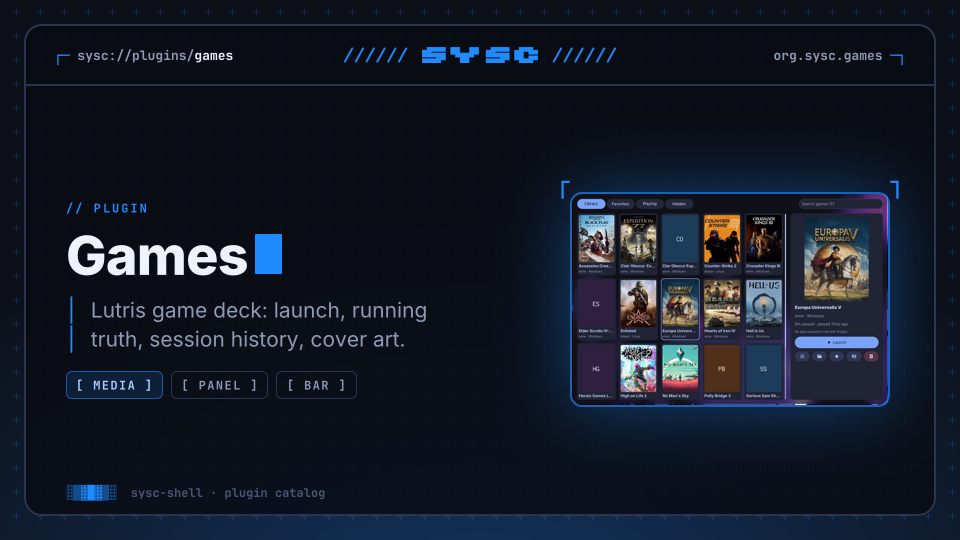
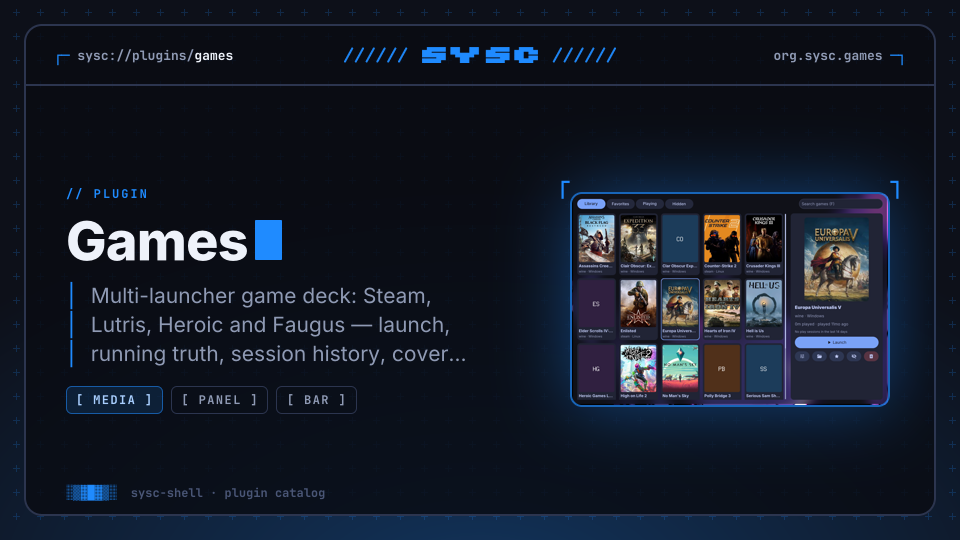
fix(games): preserve game library aliases

Changed region(s): [[0.0625, 0.3556, 0.4688, 0.7704]]

diff --git a/plugins/games/source/set.go b/plugins/games/source/set.go
@@ -51,6 +51,7 @@ func (s *Set) List(ctx context.Context) ([]Game, error) {
 			if g.Source == "" {
 				g.Source = src.Name()
 			}
+			localID := g.ID
 			g.ID = Key(g.Source, g.ID)
 
 			idx := -1
@@ -72,6 +73,17 @@ func (s *Set) List(ctx context.Context) ([]Game, error) {
 			if idx >= 0 {
 				if out[idx].Source != g.Source && !contains(out[idx].OtherSources, g.Source) {
 					out[idx].OtherSources = append(out[idx].OtherSources, g.Source)
+				}
+				if out[idx].Identity == "" && g.Identity != "" {
+					out[idx].Identity = g.Identity
+					byIdentity[g.Identity] = idx
+				}
+				_, primaryID := Split(out[idx].ID)
+				if out[idx].Source != g.Source || primaryID != localID {
+					copy := GameCopy{ID: localID, Name: g.Name, Directory: g.Directory, Source: g.Source}
+					if !containsCopy(out[idx].Copies, copy) {
+						out[idx].Copies = append(out[idx].Copies, copy)
+					}
 				}
 				continue
 			}
@@ -120,10 +132,17 @@ func (s *Set) Stop(ctx context.Context, g Game) error {
 // only ever sees its own games, with the namespace stripped.
 func (s *Set) Running(ctx context.Context, games []Game) (map[string]time.Time, error) {
 	perSource := map[string][]Game{}
+	canonical := map[string]string{}
 	for _, g := range games {
 		_, local := Split(g.ID)
-		g.ID = local
-		perSource[g.Source] = append(perSource[g.Source], g)
+		primary := g
+		primary.ID, primary.Copies = local, nil
+		perSource[g.Source] = append(perSource[g.Source], primary)
+		canonical[Key(g.Source, local)] = g.ID
+		for _, c := range g.Copies {
+			perSource[c.Source] = append(perSource[c.Source], Game{ID: c.ID, Name: c.Name, Directory: c.Directory, Source: c.Source})
+			canonical[Key(c.Source, c.ID)] = g.ID
+		}
 	}
 	out := map[string]time.Time{}
 	var errs []error
@@ -134,7 +153,13 @@ func (s *Set) Running(ctx context.Context, games []Game) (map[string]time.Time, 
 			continue
 		}
 		for id, start := range m {
-			out[Key(src.Name(), id)] = start
+			key := Key(src.Name(), id)
+			if target, ok := canonical[key]; ok {
+				key = target
+			}
+			if _, exists := out[key]; !exists {
+				out[key] = start
+			}
 		}
 	}
 	if len(errs) > 0 && len(errs) == len(s.sources) {
@@ -163,6 +188,15 @@ func titleKey(name string) string {
 func contains(list []string, want string) bool {
 	for _, s := range list {
 		if s == want {
+			return true
+		}
+	}
+	return false
+}
+
+func containsCopy(list []GameCopy, want GameCopy) bool {
+	for _, got := range list {
+		if got == want {
 			return true
 		}
 	}

diff --git a/plugins/games/source/set_test.go b/plugins/games/source/set_test.go
@@ -141,6 +141,26 @@ func TestSetDoesNotMergeConflictingIdentities(t *testing.T) {
 	}
 }
 
+func TestSetDoesNotMergeConflictingIdentitiesAfterTitleFallback(t *testing.T) {
+	heroic := &stubSource{name: "heroic", games: []Game{{ID: "side", Name: "Portal", Source: "heroic"}}}
+	steam := &stubSource{name: "steam", games: []Game{{ID: "620", Name: "Portal", Identity: "steam:620"}}}
+	lutris := &stubSource{name: "lutris", games: []Game{{ID: "7", Name: "Portal", Identity: "epic:portal"}}}
+
+	games, err := NewSet(heroic, steam, lutris).List(context.Background())
+	if err != nil {
+		t.Fatal(err)
+	}
+	if len(games) != 2 {
+		t.Fatalf("games = %+v, want the identity-less copy merged with one store copy and the conflicting store copy kept separate", games)
+	}
+	if games[0].Identity != "steam:620" || len(games[0].OtherSources) != 1 || games[0].OtherSources[0] != "steam" {
+		t.Fatalf("identity-less card did not retain the first strong identity and source: %+v", games[0])
+	}
+	if games[1].Identity != "epic:portal" || games[1].Source != "lutris" {
+		t.Fatalf("conflicting store copy was not kept: %+v", games[1])
+	}
+}
+
 func TestSetKeepsSameTitleWithinOneSource(t *testing.T) {
 	lutris := &stubSource{name: "lutris", games: []Game{
 		{ID: "1", Name: "Portal"},
@@ -220,6 +240,31 @@ func TestSetRunningHandsEachLibraryItsOwnGames(t *testing.T) {
 	}
 	if len(lutris.ranGames) != 2 || lutris.ranGames[0].ID != "7" || lutris.ranGames[1].ID != "My Game (v2)" {
 		t.Fatalf("lutris saw %+v", lutris.ranGames)
+	}
+}
+
+func TestSetRunningMapsMergedCopyToCanonicalGame(t *testing.T) {
+	start := time.Now()
+	steam := &stubSource{name: "steam", games: []Game{{ID: "620", Name: "Portal 2", Identity: "steam:620"}}}
+	heroic := &stubSource{
+		name:    "heroic",
+		games:   []Game{{ID: "portal-2", Name: "Portal 2", Identity: "steam:620"}},
+		running: map[string]time.Time{"portal-2": start},
+	}
+	set := NewSet(steam, heroic)
+	games, err := set.List(context.Background())
+	if err != nil {
+		t.Fatal(err)
+	}
+	running, err := set.Running(context.Background(), games)
+	if err != nil {
+		t.Fatal(err)
+	}
+	if got := running["steam:620"]; !got.Equal(start) {
+		t.Fatalf("canonical running state = %v, want %v; running=%v", got, start, running)
+	}
+	if len(heroic.ranGames) != 1 || heroic.ranGames[0].ID != "portal-2" {
+		t.Fatalf("Heroic received games %+v, want its source-local alias", heroic.ranGames)
 	}
 }
 

diff --git a/plugins/games/panel/settings.go b/plugins/games/panel/settings.go
@@ -11,7 +11,7 @@ func SettingsHeader() *v1.Node {
 		Kind: v1.KindColumn, Fill: "card", Shape: "card", Padding: 12, Gap: 8,
 		Children: []*v1.Node{
 			{Kind: v1.KindRow, Gap: 8, Height: 44, Children: []*v1.Node{
-				{Kind: v1.KindButton, ID: "back", Icon: "chevron_left", Width: 40, Height: 36, Padding: 8,
+				{Kind: v1.KindButton, ID: "back", Icon: "chevron_left", Width: 44, Height: 44, Padding: 8,
 					Name: "Back to games", Role: "button", Tooltip: "Back to the game deck",
 					Events: []v1.EventKind{v1.EventActivate}},
 				{Kind: v1.KindIcon, Icon: "settings", IconSize: 20},
@@ -19,7 +19,7 @@ func SettingsHeader() *v1.Node {
 					{Kind: v1.KindText, Text: "Game Library Settings", Bold: true, Size: "title"},
 				}},
 			}},
-			{Kind: v1.KindText, Text: "Settings save automatically. A game listed by two libraries appears once, launching through the default launcher.",
+			{Kind: v1.KindText, Text: "Settings save automatically. Duplicate games appear once; the selected launcher is used when available.",
 				Tone: v1.ToneSubtle, Size: "caption", MaxWidth: 620},
 		},
 	}}}

diff --git a/plugins/games/source/heroic/heroic_test.go b/plugins/games/source/heroic/heroic_test.go
@@ -196,6 +196,23 @@ func TestLaunchArgv(t *testing.T) {
 	}
 }
 
+func TestLaunchEscapesSideloadID(t *testing.T) {
+	var got string
+	src := mustNew(t, Options{
+		ConfigDirs: []string{t.TempDir()},
+		Run: func(_ context.Context, name string, args ...string) error {
+			got = strings.Join(append([]string{name}, args...), " ")
+			return nil
+		},
+	})
+	if err := src.Launch(context.Background(), source.Game{ID: "Sugar II/100%?", Runner: "sideload"}); err != nil {
+		t.Fatal(err)
+	}
+	if want := "xdg-open heroic://launch/sideload/Sugar%20II%2F100%25%3F"; got != want {
+		t.Fatalf("launch argv = %q, want %q", got, want)
+	}
+}
+
 func TestRunningAndStop(t *testing.T) {
 	procRoot := t.TempDir()
 	writeProc(t, procRoot, 4242, "/games/sugar/bin/sugar\x00--fullscreen\x00")

diff --git a/plugins/games/source/source.go b/plugins/games/source/source.go
@@ -35,6 +35,19 @@ type Game struct {
 	// OtherSources lists the libraries a merged card also exists in, in set
 	// order; the detail pane reads it as "Also in …".
 	OtherSources []string
+	// Copies retains each merged library's local id and running-match fields.
+	// The selected copy still owns launch and stop; aliases let every library
+	// contribute running state to the same card.
+	Copies []GameCopy
+}
+
+// GameCopy is the source-local part of a deduplicated game needed for running
+// detection. IDs stay local so each backend sees the same values it listed.
+type GameCopy struct {
+	ID        string
+	Name      string
+	Directory string
+	Source    string
 }
 
 type Source interface {

diff --git a/plugins/games/source/heroic/heroic.go b/plugins/games/source/heroic/heroic.go
@@ -10,6 +10,7 @@ import (
 	"context"
 	"encoding/json"
 	"fmt"
+	"net/url"
 	"os"
 	"path/filepath"
 	"sort"
@@ -181,9 +182,9 @@ func (s *Source) sideload() []source.Game {
 // own. The URI is the one launch path shared by every install shape — native
 // package, AppImage and Flatpak — because Heroic registers the scheme itself.
 func (s *Source) Launch(ctx context.Context, g source.Game) error {
-	uri := "heroic://launch/" + g.ID
+	uri := "heroic://launch/" + url.PathEscape(g.ID)
 	if g.Runner == "sideload" {
-		uri = "heroic://launch/sideload/" + g.ID
+		uri = "heroic://launch/sideload/" + url.PathEscape(g.ID)
 	}
 	return s.run(ctx, "xdg-open", uri)
 }

diff --git a/plugins/games/panel/settings_test.go b/plugins/games/panel/settings_test.go
@@ -20,8 +20,12 @@ func TestSettingsHeaderFits(t *testing.T) {
 			t.Errorf("settings header at %dx%d: %v", box[0], box[1], f)
 		}
 	}
-	if find(t, root, "back") == nil {
+	back := find(t, root, "back")
+	if back == nil {
 		t.Fatal("the settings header needs the back button")
+	}
+	if back.Width < 44 || back.Height < 44 || back.Name == "" {
+		t.Fatalf("back button target/accessible name = %dx%d %q; want at least 44x44 and a name", back.Width, back.Height, back.Name)
 	}
 	if find(t, root, "settings") != nil {
 		t.Fatal("the header is not the settings form; the host renders that")

diff --git a/cmd/sysc-plugin-games/main.go b/cmd/sysc-plugin-games/main.go
@@ -500,7 +500,7 @@ func equalGames(a, b []source.Game) bool {
 			x.LastPlayed.Equal(y.LastPlayed) && x.Directory == y.Directory &&
 			x.Executable == y.Executable && x.ConfigPath == y.ConfigPath &&
 			x.CoverPath == y.CoverPath && x.Source == y.Source &&
-			x.Identity == y.Identity && slices.Equal(x.OtherSources, y.OtherSources)
+			x.Identity == y.Identity && slices.Equal(x.OtherSources, y.OtherSources) && slices.Equal(x.Copies, y.Copies)
 	})
 }
 
